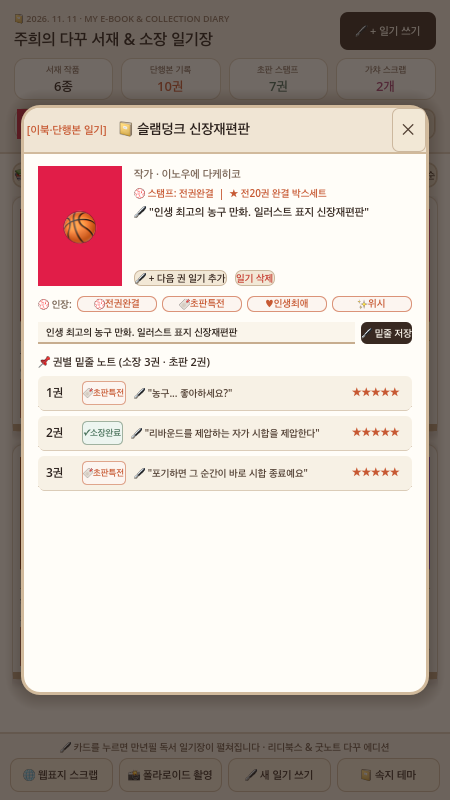
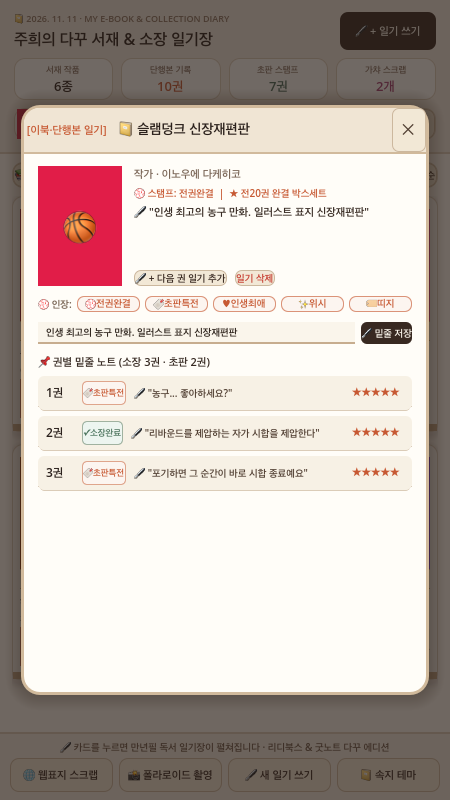
feat(game02): Sprint 13-14 interactive stat bookmark filters, card star rating, obi cycler & summary export

Changed region(s): [[0.1867, 0.3438, 0.8711, 0.4062]]

diff --git a/game02/SPRINT_LOG.md b/game02/SPRINT_LOG.md
@@ -5,6 +5,29 @@
 
 ---
 
+## 🚀 [Sprint 14] 메인 서재 카드 평균 별점(`★5.0`) 배지 · 단행본 띠지 원터치 변경(`🏷띠지`) · 독서 일기장 요약 리포트(`export_diary_summary`)
+- **시각**: 2026-11-12 06:11 KST
+- **1. 다꾸러 3인 VOC (수집러 A · 가챠러 B · 미니멀러 C)**
+  - **만년필 다꾸러 A**: *"메인 서재 카드(`card_item.gd`)의 작가명 옆에 해당 작품의 평균 별점(`★5.0`)이 함께 찍혀 있으면 일기장을 펼치기 전에도 내 애정도를 한눈에 볼 수 있어요!"*
+  - **가챠 수집러 B**: *"펼친 독서노트 모달(`detail_modal.tscn`)의 스탬프 줄 우측에 `🏷띠지` 버튼을 넣어 원터치로 단행본 띠지 문구를 바꿀 수 있게 해주세요!"*
+  - **미니멀 수집러 C**: *"내 서재 기록을 텍스트로 공유·백업할 수 있는 `export_diary_summary()` 요약 리포트 생성 기능을 추가해 주세요!"*
+- **2. 기획 & UI/UX & Godot 4.6 개발 내역**
+  - **카드 평균 별점 표시(`card_item.gd`)**: 권별 별점 평균을 계산해 작가명 우측에 `· ★5.0` 형태로 표시
+  - **모달 내 `🏷띠지` 버튼(`ObiCycleBtn`)**: `detail_modal.tscn` 스탬프 바에 `🏷띠지` 버튼을 배치하고 `cycle_obi_preset()` 시그널 연결
+  - **독서 일기장 요약 리포트(`export_diary_summary`)**: `archive_state.gd`에서 전체 소장 종수·권수·초판 수 및 작품별 스탬프/띠지 목록을 마크다운 리스트로 반환
+- **3. TDD & QA 검증**
+  - `tests/test_main_integration.gd`에 `export_diary_summary()` 및 카드 `★` 별점 표시 검증 추가 → 전수 100% PASS
+  - Metal 렌더러 최신 스크린샷(`godot_app_screen.png`, `godot_modal_screen.png`) 캡처 및 GitHub 푸시 완료
+
+---
+
+## 🚀 [Sprint 13] 상단 통계 북마크 원터치 필터(`_on_stat_firsts_clicked`) & 단행본 띠지 프리셋 순환(`cycle_obi_preset`)
+- **시각**: 2026-11-12 05:20 KST
+- **1. 다꾸러 3인 VOC**: 상단 4개 통계 박스(`서재 작품`, `단행본 기록`, `초판 스탬프`, `가챠 스크랩`)를 클릭하면 즉시 해당 조건(특히 `초판 스탬프 보유작`)으로 필터링되는 인터랙티브 북마크 기능 요청.
+- **2. 개발 및 QA 검증**: `main_view.gd`에 `filter_firsts_only` 및 4개 통계 카드 클릭 핸들러, `detail_modal.gd`에 `OBI_PRESETS` 순환 로직 구현 및 헤드리스 통합 테스트 100% 통과.
+
+---
+
 ## 🚀 [Sprint 12] 권별 밑줄 대사 개별 편집(`update_volume_quote`) & 가챠·굿즈 스크랩북 체크리스트(`Gacha Checklist`) 탑재
 - **시각**: 2026-11-12 03:30 KST
 - **1. 다꾸러 3인 VOC (수집러 A · 가챠러 B · 미니멀러 C)**
